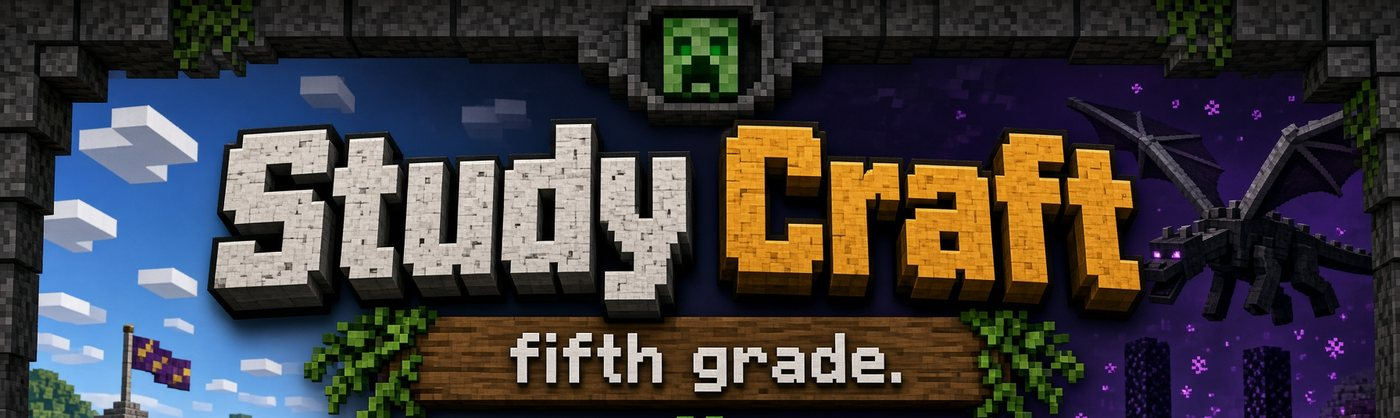
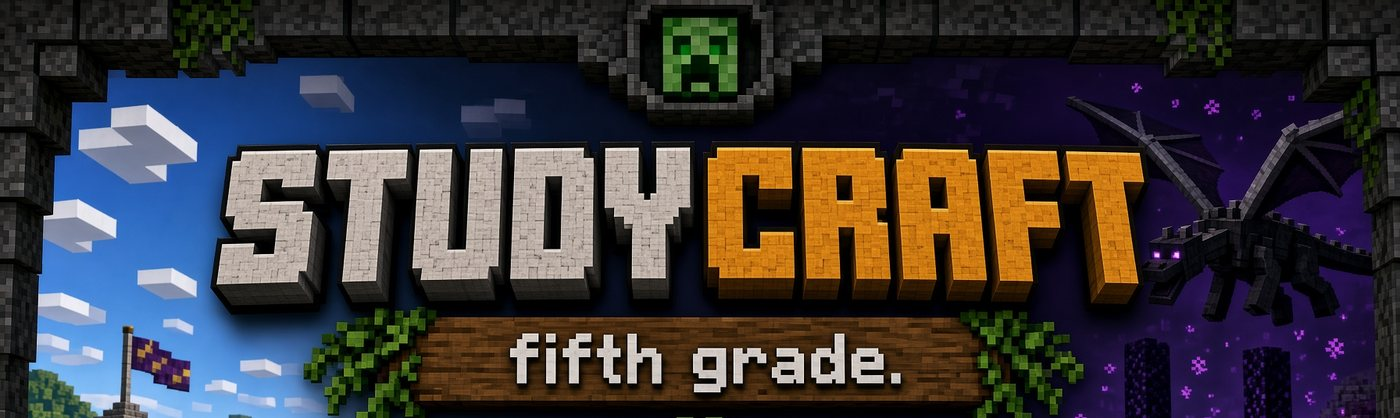
Add files via upload

diff --git a/index.html b/index.html
@@ -156,7 +156,7 @@ footer{margin:30px 0 0;padding-top:16px;border-top:2px solid var(--line);
 
 <header class="title">
   <div class="wrap"><h1><img class="banner" src="assets/banner.jpg"
-       alt="Study Craft &mdash; fifth grade" width="1400" height="418"></h1></div>
+       alt="STUDY CRAFT &mdash; fifth grade" width="1400" height="418"></h1></div>
   <div class="titlebar">
     <button id="splash" type="button" aria-label="New splash message"></button>
     <p class="rule">Ace a subject's hardest level without losing a heart &mdash; slay the ender dragon</p>
